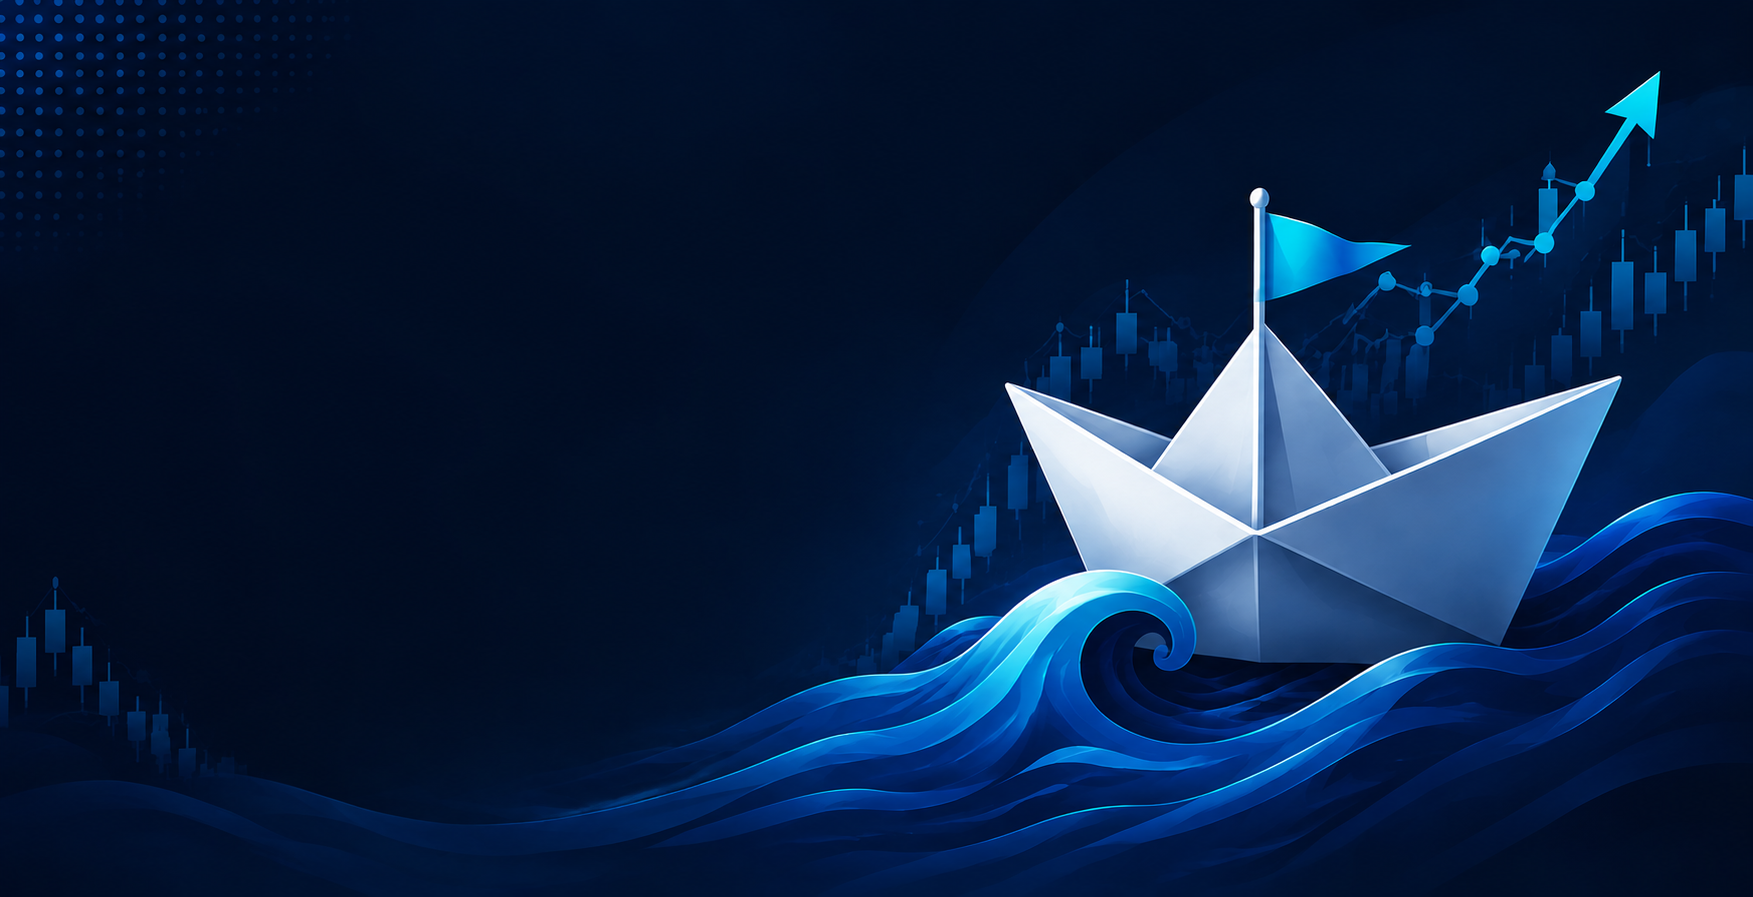
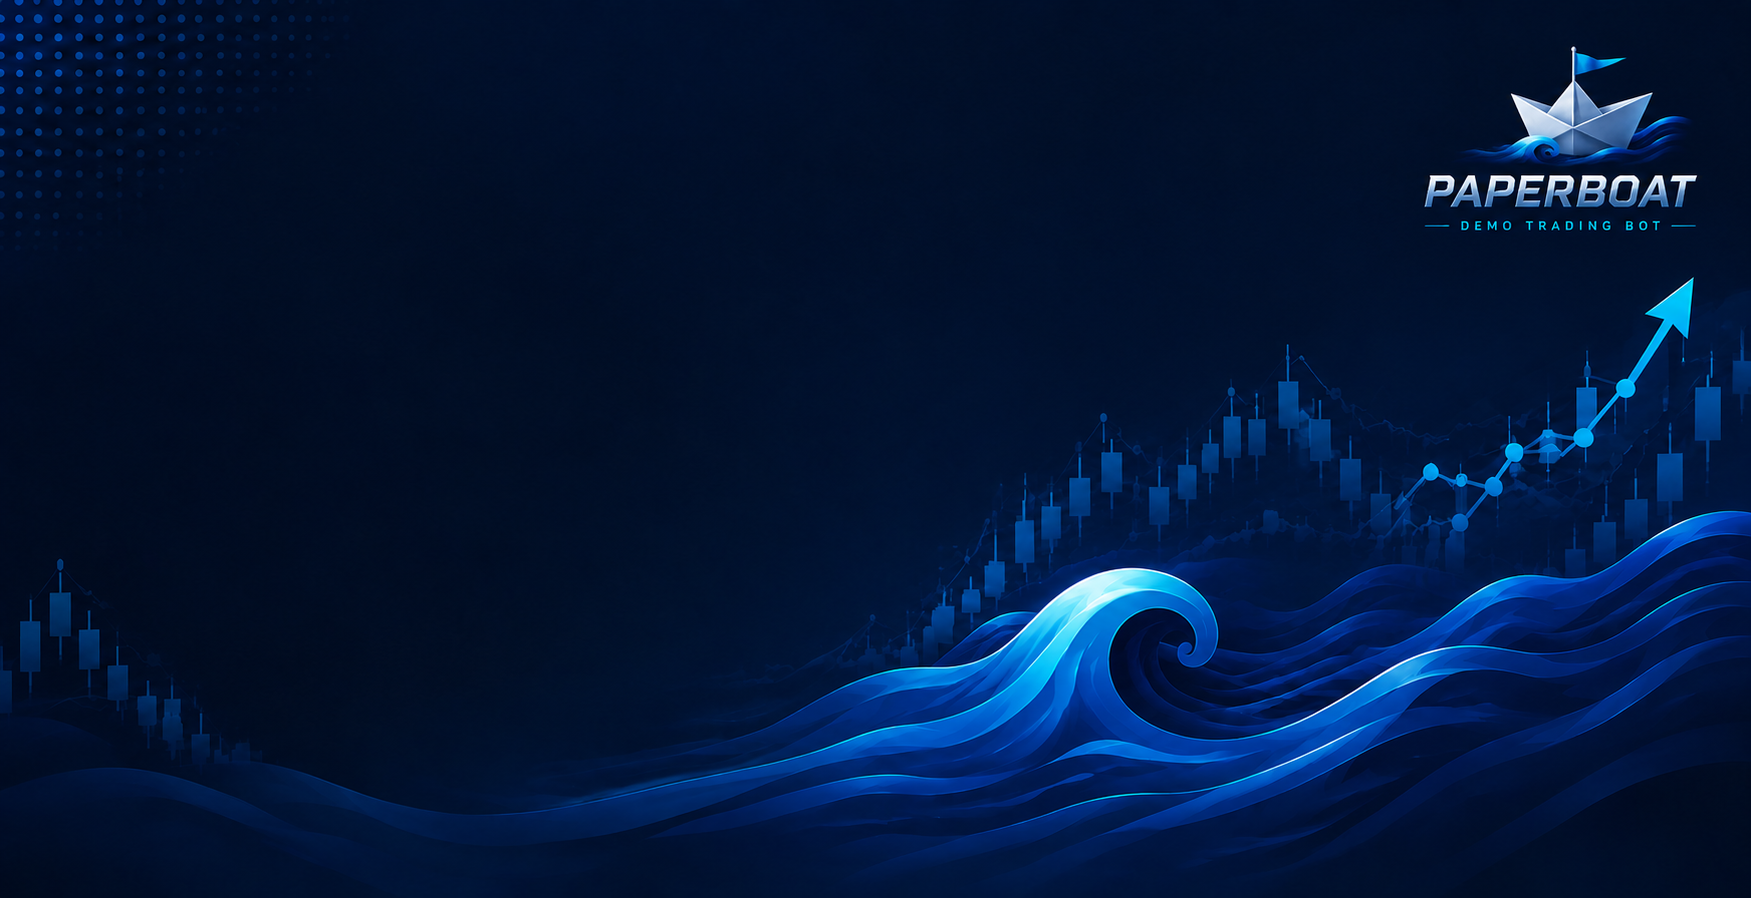
dd

diff --git a/pnl_card.py b/pnl_card.py
@@ -33,9 +33,9 @@ RED = (248, 113, 113, 255)
 CYAN = (56, 189, 248, 255)
 DIVIDER_COLOR = (60, 90, 140, 140)
 
-# Layout is tuned for the current 1753x897 template. The right ~45% of the
-# image is the boat/wave illustration, so all text stays in the left/upper
-# dark region.
+# Layout is tuned for the current 1751x898 template, which already carries
+# the PAPERBOAT logo/wordmark (top-right) and wave/candlestick art (right
+# and bottom), so all overlaid text stays in the left/upper dark region.
 CONTENT_LEFT = 70
 CONTENT_RIGHT = 940
 LOGO_SIZE = 92
@@ -209,7 +209,7 @@ def _draw_logo_placeholder(draw: ImageDraw.ImageDraw, box, symbol: str) -> None:
 
 def _stat(draw, x, y, label, value, value_color=WHITE, label_font=None, value_font=None):
     draw.text((x, y), label, font=label_font, fill=LABEL_GRAY)
-    draw.text((x, y + 30), value, font=value_font, fill=value_color)
+    draw.text((x, y + 34), value, font=value_font, fill=value_color)
 
 
 def generate_pnl_card(trade: dict) -> str:
@@ -227,10 +227,9 @@ def generate_pnl_card(trade: dict) -> str:
     overlay = Image.new("RGBA", base.size, (0, 0, 0, 0))
     draw = ImageDraw.Draw(overlay)
 
-    header_font = _font(FONT_BOLD, 40)
-    symbol_font = _font(FONT_REGULAR, 30)
-    label_font = _font(FONT_REGULAR, 22)
-    value_font = _font(FONT_BOLD, 40)
+    symbol_font = _font(FONT_REGULAR, 34)
+    label_font = _font(FONT_REGULAR, 26)
+    value_font = _font(FONT_BOLD, 46)
 
     pnl = float(trade["pnl"])
     pnl_pct = float(trade["pnl_pct"])
@@ -238,16 +237,11 @@ def generate_pnl_card(trade: dict) -> str:
     accent = GREEN if is_win else RED
     sign = "+" if pnl >= 0 else ""
 
-    # --- Header -----------------------------------------------------------
-    x = CONTENT_LEFT
-    y = 55
-    draw_text_with_emoji(overlay, (x, y), "🚤 PAPERBOAT", _font(FONT_BOLD, 30), CYAN, emoji_px=32)
-    y += 44
-    status_label = trade.get("status_label") or "TRADE CLOSED"
-    draw.text((x, y), status_label, font=header_font, fill=WHITE)
-
     # --- Token identity (logo + name/symbol) -------------------------------
-    y += 70
+    # No header text here anymore - the template background already carries
+    # the PAPERBOAT logo/wordmark in its top-right corner.
+    x = CONTENT_LEFT
+    y = 100
     logo_box = (x, y, x + LOGO_SIZE, y + LOGO_SIZE)
     logo_img = _fetch_logo(trade.get("logo_url"), LOGO_SIZE)
     if logo_img is not None:
@@ -258,7 +252,7 @@ def generate_pnl_card(trade: dict) -> str:
 
     text_x = x + LOGO_SIZE + 24
     max_name_width = CONTENT_RIGHT - text_x
-    fitted_name_font = _fit_text(draw, trade["token_name"], FONT_BOLD, max_name_width, 52, min_size=28)
+    fitted_name_font = _fit_text(draw, trade["token_name"], FONT_BOLD, max_name_width, 58, min_size=30)
     name_display = _truncate_to_width(draw, trade["token_name"], fitted_name_font, max_name_width)
     draw.text((text_x, y + 6), name_display, font=fitted_name_font, fill=WHITE)
     draw.text((text_x, y + 62), trade["token_symbol"].upper(), font=symbol_font, fill=LABEL_GRAY)
@@ -269,7 +263,7 @@ def generate_pnl_card(trade: dict) -> str:
 
     # --- Stat grid (2 columns x 4 rows) -------------------------------------
     y += 40
-    row_h = 100
+    row_h = 106
     col2_x = x + COL_GAP
 
     _stat(draw, x, y, "ENTRY MCAP", _fmt_compact(trade["entry_market_cap"]),
@@ -297,7 +291,7 @@ def generate_pnl_card(trade: dict) -> str:
     username = trade.get("username")
     if username:
         handle = username if str(username).startswith("@") else f"@{username}"
-        uname_font = _font(FONT_BOLD, 34)
+        uname_font = _font(FONT_BOLD, 38)
         text_w = draw.textlength(handle, font=uname_font)
         margin = 50
         ux = base.width - margin - text_w
